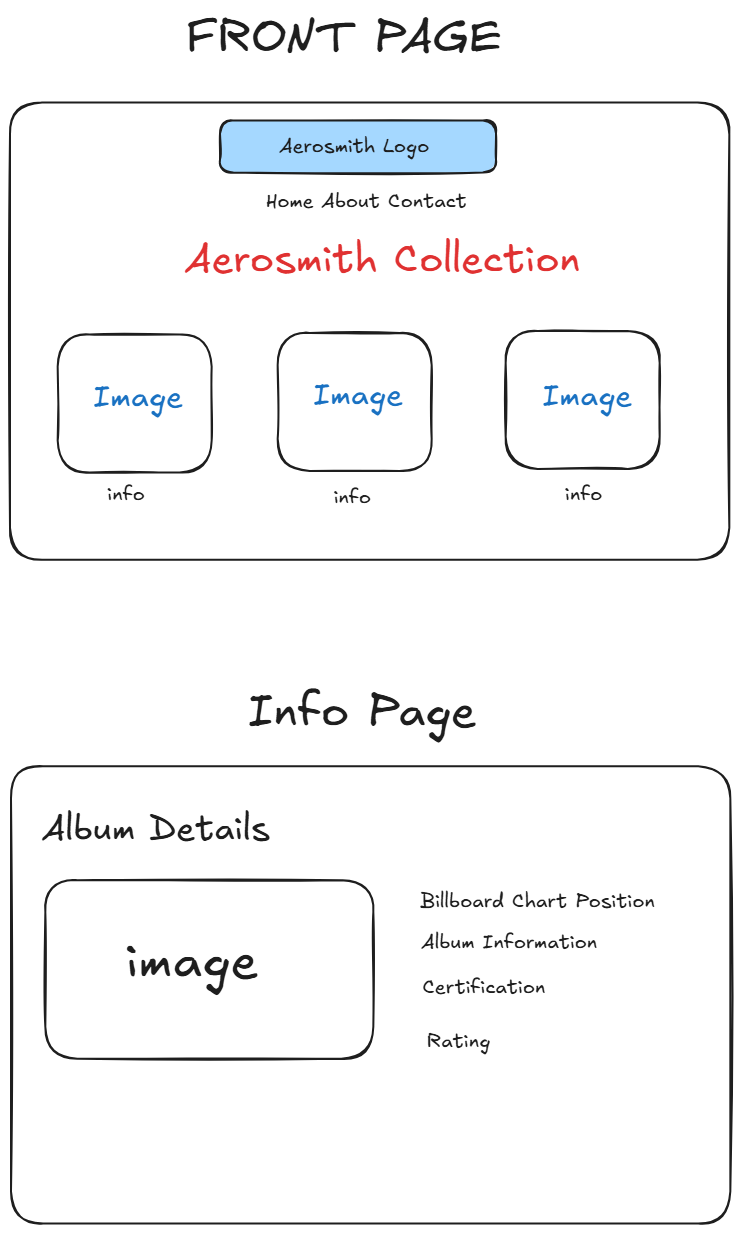
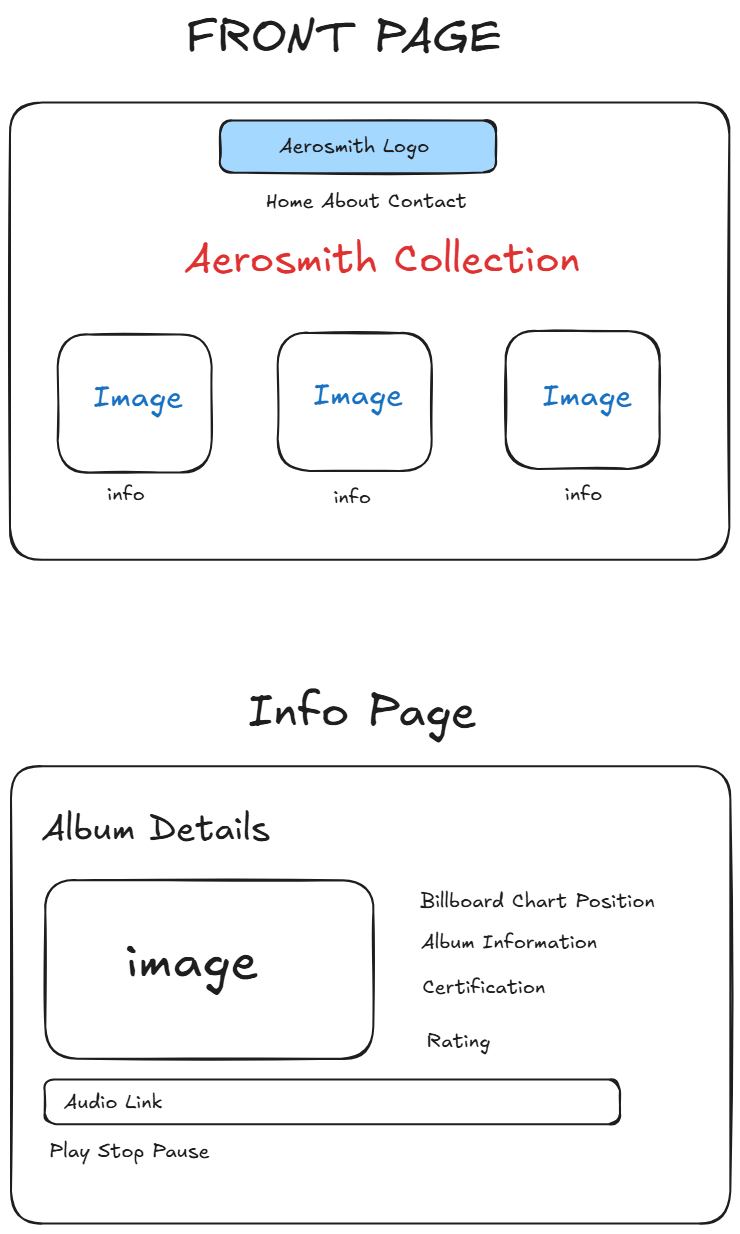
first commit

Changed region(s): [[0.0622, 0.8622, 0.2797, 0.9546], [0.8081, 0.8622, 0.8392, 0.9238]]

diff --git a/client/src/components/MainPage.jsx b/client/src/components/MainPage.jsx
@@ -1,4 +1,5 @@
 import { useState, useEffect } from 'react';
+import { Link } from 'react-router-dom'
 
 export default function MainPage() {
     const [music, setMusic] = useState([]);
@@ -40,34 +41,36 @@ export default function MainPage() {
     }, []);
 
     return (
-    <>
-        <div className="article_title">
-            Aerosmith Collection
-        </div>
 
-        <div className="about-container">
+<>
+    <div className="article_title">
+        Aerosmith Collection
+    </div>
 
-            {loading && <p>Loading music...</p>}
+    <div className="about-container">
 
-            {error && <p>Error: {error}</p>}
+        {loading && <p>Loading music...</p>}
 
-            {!loading && !error && (
+        {error && <p>Error: {error}</p>}
 
-                <div className="img-container">
+        {!loading && !error && (
 
-                    {music.length === 0 ? (
+            <div className="img-container">
 
-                        <p>No music records found.</p>
+                {music.length === 0 ? (
 
-                    ) : (
+                    <p>No music records found.</p>
 
-                        music.map((item) => (
+                ) : (
 
-                            <div className="album_page" key={item.id}>
+                    music.map((item) => (
 
-                                <h2>{item.title}</h2>
+                        <div className="album_page" key={item.id}>
 
-                                {item.cover_img && (
+                            <h2>{item.title}</h2>
+
+                            {item.cover_img && (
+                                <Link to={`/album/${item.id}`}>
                                     <img
                                         src={item.cover_img}
                                         alt={item.title}
@@ -76,25 +79,25 @@ export default function MainPage() {
                                             e.target.style.display = 'none';
                                         }}
                                     />
-                                )}
+                                </Link>
+                            )}
 
-                
+                            <p className="album_page_description">
+                                Released in {item.year_released}
+                            </p>
 
-                                <p className="album_page_description">
-                                    Released in {item.year_released}
-                                </p>
+                        </div>
 
-                            </div>
+                    ))
 
-                        ))
+                )}
 
-                    )}
+            </div>
 
-                </div>
+        )}
 
-            )}
+    </div>
+</>
 
-        </div>
-    </>
     )
 }

diff --git a/client/src/components/AlbumDetails.jsx b/client/src/components/AlbumDetails.jsx
@@ -1,0 +1,94 @@
+
+import { useParams } from 'react-router-dom'
+import { useState, useEffect } from 'react'
+
+export default function AlbumDetails() {
+
+    const { id } = useParams()
+
+    const [album, setAlbum] = useState(null)
+    const [loading, setLoading] = useState(true)
+    const [error, setError] = useState(null)
+
+    useEffect(() => {
+
+        const fetchAlbum = async () => {
+
+            try {
+                setLoading(true)
+                setError(null)
+
+                const response = await fetch(
+                    'http://localhost:5000/api/music'
+                )
+
+                if (!response.ok) {
+                    throw new Error('Unable to retrieve albums')
+                }
+
+                const data = await response.json()
+                const selectedAlbum = data.find(
+                    item => String(item.id) === id
+                )
+
+                if (!selectedAlbum) {
+                    throw new Error('Album not found')
+                }
+
+                setAlbum(selectedAlbum)
+
+            } catch (err) {
+
+                setError(err.message)
+
+            } finally {
+
+                setLoading(false)
+
+            }
+        }
+
+        fetchAlbum()
+
+    }, [id])
+
+
+    if (loading) {
+        return <p>Loading album details...</p>
+    }
+
+    if (error) {
+        return <p>Error: {error}</p>
+    }
+
+
+    return (
+
+        <div className="album-details">
+
+            <h1 className="album-details-title">
+                {album.title}
+            </h1>
+
+            <img
+                src={album.cover_img}
+                alt={album.title}
+                className="album-details-image"
+            />
+
+            <div className="album-information">
+
+                <p>
+                    <strong>Release Year:</strong> {album.year_released}
+                </p>
+
+                <p>
+                    <strong>Release Type:</strong> {album.release_type}
+                </p>
+
+            </div>
+
+        </div>
+
+    )
+}

diff --git a/client/src/App.css b/client/src/App.css
@@ -95,6 +95,27 @@ width: 100%;
     color: #555;
 }
 
+.album-details {
+    display: flex;
+    flex-direction: column;
+    align-items: center;
+    text-align: center;
+    padding: 30px;
+}
+
+.album-details-title {
+    font-size: 32px;
+    margin-bottom: 25px;
+}
+
+.album-details-image {
+    width: 300px;
+    max-width: 100%;
+    height: auto;
+    border-radius: 8px;
+    margin-bottom: 20px;
+}
+
 @media (max-width: 900px) {
     .img-container {
         grid-template-columns: repeat(2, 1fr);

diff --git a/client/src/App.jsx b/client/src/App.jsx
@@ -3,6 +3,7 @@ import { useState } from 'react'
 import './App.css'
 import Navbar from './components/Navbar'
 import MainPage from './components/MainPage'
+import AlbumDetails from './components/AlbumDetails'
 
 function App() {
   const [count, setCount] = useState(0)
@@ -14,6 +15,7 @@ function App() {
 
             <Routes>
                 <Route path="/" element={<MainPage />} />
+                <Route path="/album/:id" element={<AlbumDetails />} />
             </Routes>
         </Router>
 
